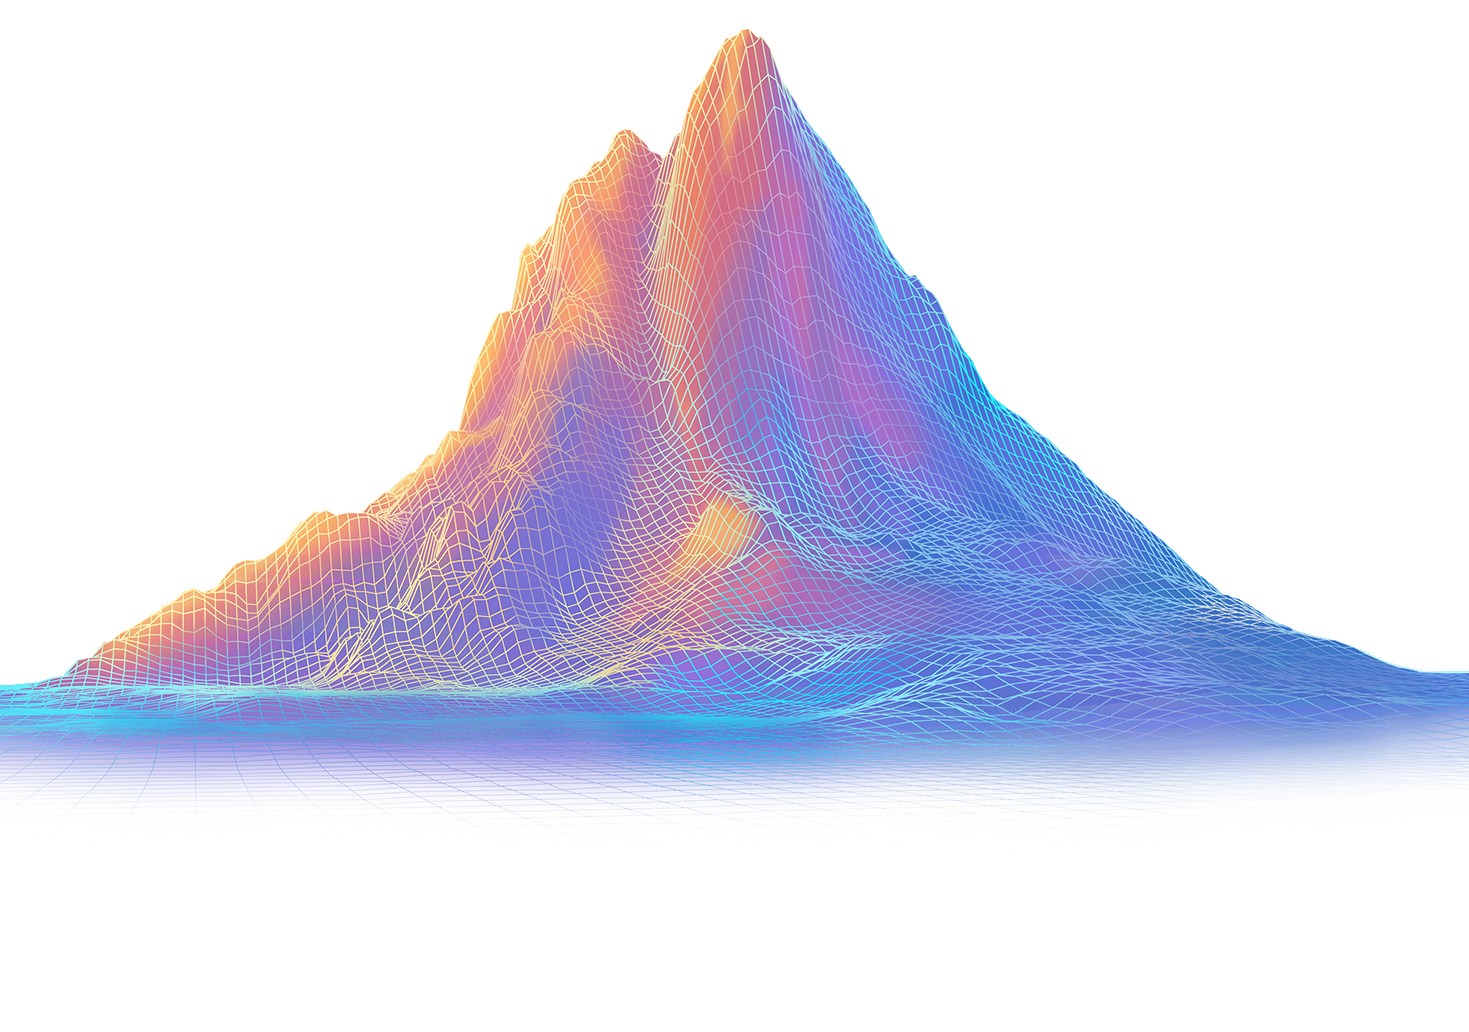
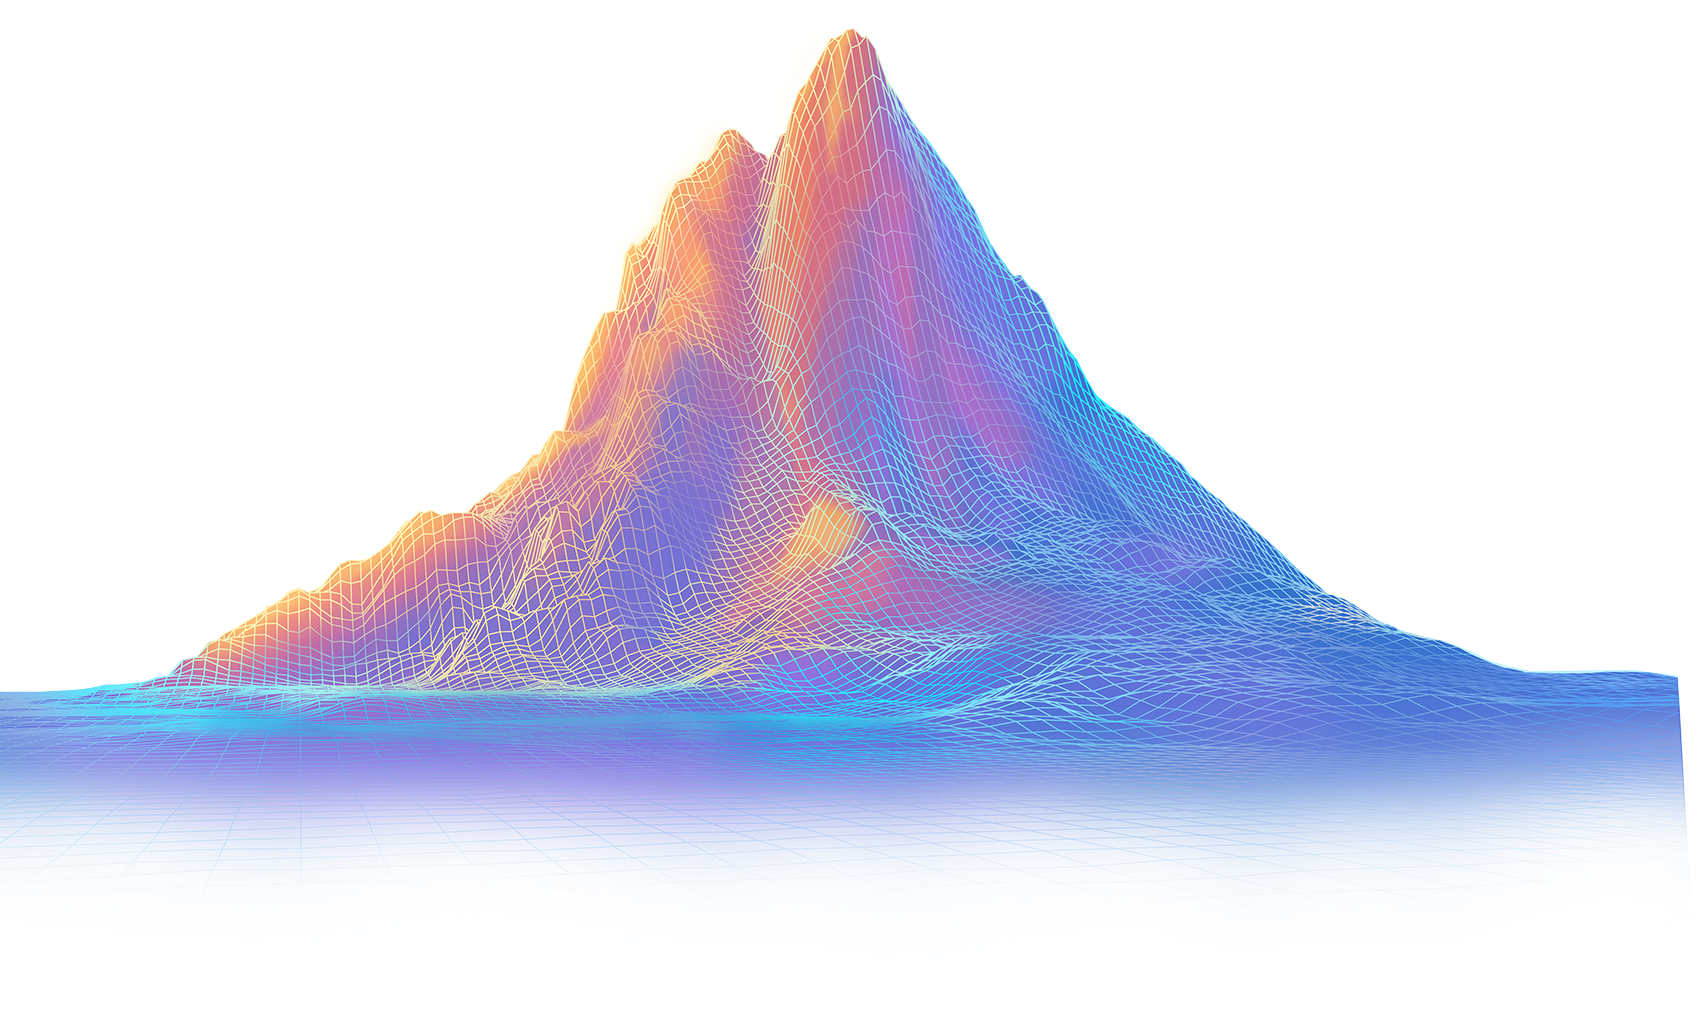
change img, road

Changed region(s): [[0.0, 0.031, 1.0, 0.8372]]

diff --git a/index.html b/index.html
@@ -435,6 +435,74 @@
                         id="svg2"
                         class="mb hidden"
                         preserveAspectRatio="none"
+                        width="696" height="688" viewBox="0 0 696 688" fill="none" xmlns="http://www.w3.org/2000/svg">
+                            <path d="M323 20.5691C325.787 12.4604 327.111 9.72234 332 6.92803L329 2.56905C322.611 6.06923 320.529 9.58274 317.5 18.5691L323 20.5691Z" fill="#747264" stroke="#747264" stroke-width="2"/>
+                            <path d="M314.5 32.5L320 33.9216L316.5 55L310.5 53L314.5 32.5Z" fill="#747264" stroke="#747264"/>
+                            <path d="M308.5 90.5L313 68.5L307 66.5L303 88.5L308.5 90.5Z" fill="#747264" stroke="#747264"/>
+                            <path d="M300.262 124L305.762 103L300.262 101.5L295 122.5L300.262 124Z" fill="#747264" stroke="#747264"/>
+                            <path d="M287.743 153L296.243 135.5L291 133L282.243 149.5L287.743 153Z" fill="#747264" stroke="#747264"/>
+                            <path d="M280.438 162.402C279.071 160.254 277.367 160.148 276 158C270.691 162.802 269.42 164.531 263.5 166L266.5 171.5C273.061 170.604 274.716 167.827 280.438 162.402Z" fill="#747264" stroke="#747264"/>
+                            <path d="M254.586 174.5L252 169.5C245.228 171.038 242.993 172.679 237.93 179.5L242.5 183C246.567 176.653 248.17 176.236 254.586 174.5Z" fill="#747264" stroke="#747264"/>
+                            <path d="M233 195L227.5 191.5C220.74 198.758 222.144 199.303 222 209.5L228.5 210C229.085 201.832 227.896 200.439 233 195Z" fill="#747264" stroke="#747264"/>
+                            <path d="M240 240L244.5 236C238.755 232.425 235.79 229 231.79 222L226.5 224.5C230.885 231.347 233.681 235.508 240 240Z" fill="#747264" stroke="#747264"/>
+                            <path d="M264 259L252.5 243L248.083 247L259 263L264 259Z" fill="#747264" stroke="#747264"/>
+                            <path d="M279 286.5L270 269L265 272.408L274 289.5L279 286.5Z" fill="#747264" stroke="#747264"/>
+                            <path d="M292 318.44L284.5 299.5L279 301.786L286.5 320.787L292 318.44Z" fill="#747264" stroke="#747264"/>
+                            <path d="M296.259 354L302.5 352L296.259 333.5L290.5 335.5L296.259 354Z" fill="#747264" stroke="#747264"/>
+                            <path d="M307 366.5L301.5 368.5L308.5 387.5L314 386L307 366.5Z" fill="#747264" stroke="#747264"/>
+                            <path d="M321.579 419L327.5 415.5C322.795 409.379 320.066 406.981 317.5 399L311 401.222C313.599 409.163 316.736 412.449 321.579 419Z" fill="#747264" stroke="#747264"/>
+                            <path d="M341 444.625L345.5 440.417C340.202 435.579 337.691 433.475 333.5 426.417L328 429.625C331.633 436.175 335.067 439.002 341 444.625Z" fill="#747264" stroke="#747264"/>
+                            <path d="M362 462L365.5 456.5C359.295 453.671 358.478 453.345 353.5 447.5L348.5 451.5C353.332 456.732 355.671 458.569 362 462Z" fill="#747264" stroke="#747264"/>
+                            <path d="M384 476.5L387 471C381.122 467.553 380.5 466.5 373.5 462L370 467C378 472 377 472 384 476.5Z" fill="#747264" stroke="#747264"/>
+                            <path d="M409 490.5L410.714 484.315C404.259 481.899 402.025 481.002 397 477L393.355 482.315C398.292 486.617 401.342 488.27 409 490.5Z" fill="#747264" stroke="#747264"/>
+                            <path d="M434.033 496.684L435 491.5L420.5 487.5L418.5 493L434.033 496.684Z" fill="#747264" stroke="#747264"/>
+                            <path d="M442 498.861L457 503L458 497.285L444 493.5L442 498.861Z" fill="#747264" stroke="#747264"/>
+                            <path d="M464.5 505.434L466.5 500.5L482 506.719L480 512.219L464.5 505.434Z" fill="#747264" stroke="#747264"/>
+                            <path d="M488.145 516L492 510.5C497.442 515.188 499.149 515.988 505.5 518.5L502.772 524.892C496.231 521.857 493.89 520.242 488.145 516Z" fill="#747264" stroke="#747264"/>
+                            <path d="M528.541 534.5L530 528.5C523.941 526.55 520.395 525.876 514.5 522.5L512 528.241C517.922 531.66 522.506 532.589 528.541 534.5Z" fill="#747264" stroke="#747264"/>
+                            <path d="M553.5 539.5L554.332 534C548.031 532.13 544.001 531.388 537.5 530.5L536.5 536.5C542.9 537.011 547.086 537.673 553.5 539.5Z" fill="#747264" stroke="#747264"/>
+                            <path d="M576 548.5L579 543.462C573.216 539.827 569.449 537.477 563 536L561 541.5C567 543.462 570.286 544.82 576 548.5Z" fill="#747264" stroke="#747264"/>
+                            <path d="M600.012 559.816L602 554.5C596.056 552.207 592.895 551.381 587 548L584.317 552.851C590.35 556.601 593.795 558.035 600.012 559.816Z" fill="#747264" stroke="#747264"/>
+                            <path d="M625.168 567.304L625.973 561.5L610.74 557.196L609.184 563L625.168 567.304Z" fill="#747264" stroke="#747264"/>
+                            <path d="M633.975 569.19L635.341 563.5C641.574 565.473 644.811 566.744 650.901 567.786L650.12 573C643.703 572.341 640.16 571.551 633.975 569.19Z" fill="#747264" stroke="#747264"/>
+                            <path d="M659.451 575.345L660.086 569.631C666.681 570.576 670.557 572.044 676.451 574.393L675.402 579.631C669.173 577.53 665.679 576.613 659.451 575.345Z" fill="#747264" stroke="#747264"/>
+                            <path d="M682.197 582.361L684 577C692.466 581.888 696.154 583.909 693.385 588.133L688.27 594.291L685 589.467C687.615 586.346 688.348 584.903 682.197 582.361Z" fill="#747264" stroke="#747264"/>
+                            <path d="M681 596V591H665V596H681Z" fill="#747264" stroke="#747264"/>
+                            <path d="M656 595.571V590.5H640V595.571H656Z" fill="#747264" stroke="#747264"/>
+                            <path d="M615 594.5V589.5L631 590V595L615 594.5Z" fill="#747264" stroke="#747264"/>
+                            <path d="M606 594V589.5H590V594H606Z" fill="#747264" stroke="#747264"/>
+                            <path d="M581 594.5V589.5H565V594.5H581Z" fill="#747264" stroke="#747264"/>
+                            <path d="M556.5 595V590C549.678 590.311 546.95 590.565 540.5 592.5L541.5 597.5C547.752 595.348 550 595.337 556.5 595Z" fill="#747264" stroke="#747264"/>
+                            <path d="M531.5 600L529.5 595C522.79 596.337 520.76 599.052 515 602L518 607C523.839 604.09 525.16 601.393 531.5 600Z" fill="#747264" stroke="#747264"/>
+                            <path d="M509 613L505.5 608.5L492 617.5L494.249 622.5L509 613Z" fill="#747264" stroke="#747264"/>
+                            <path d="M472.704 636.591C478.505 633.418 481.314 631.453 487 627.5L484 623C478.17 626.664 476.44 628.917 470.5 632L472.704 636.591Z" fill="#747264" stroke="#747264"/>
+                            <path d="M464.189 641.952L461.689 638C455.59 641.229 452.926 642.683 446.689 645L448.394 649.5C454.733 647.119 458.194 645.473 464.189 641.952Z" fill="#747264" stroke="#747264"/>
+                            <path d="M440.587 653.81L438.5 649C432.957 651.757 430.38 653.749 424.5 655L426 659.5C431.433 658.028 434.645 656.744 440.587 653.81Z" fill="#747264" stroke="#747264"/>
+                            <path d="M417 663L415.417 658C409.397 660.006 407.508 661.168 401 662L401.847 667C407.877 666.061 410.814 665.204 417 663Z" fill="#747264" stroke="#747264"/>
+                            <path d="M391 671L389.5 665.5C383.236 667.202 381.477 669.741 375.5 670L376 675C381.827 674.844 384.649 672.505 391 671Z" fill="#747264" stroke="#747264"/>
+                            <path d="M366 677.242L365.673 672C359.626 673.12 356.203 673.558 350 673.747L350.327 678.989C356.433 679.078 359.864 678.63 366 677.242Z" fill="#747264" stroke="#747264"/>
+                            <path d="M325 681V676.188C330.705 675.836 333.746 675.319 340.5 674L341 679.25C334.424 680.539 330.942 680.932 325 681Z" fill="#747264" stroke="#747264"/>
+                            <path d="M317 682.5V677C310.366 678.046 306.647 678.861 300 678.5V683.794C306.483 684.249 310.221 683.638 317 682.5Z" fill="#747264" stroke="#747264"/>
+                            <path d="M291 684.5V679L275 680V685.5L291 684.5Z" fill="#747264" stroke="#747264"/>
+                            <path d="M266.561 686V680.5H250.478V686H266.561Z" fill="#747264" stroke="#747264"/>
+                            <path d="M241.581 686.5V681H225.841V686.5H241.581Z" fill="#747264" stroke="#747264"/>
+                            <path d="M216.602 687.5V682H200.519V687.5H216.602Z" fill="#747264" stroke="#747264"/>
+                            <path d="M191.965 687.5V682H175.198V687.5H191.965Z" fill="#747264" stroke="#747264"/>
+                            <path d="M166.643 687.5V682H150.561V687.5H166.643Z" fill="#747264" stroke="#747264"/>
+                            <path d="M142.006 687.5V681.5H125.239V687.5H142.006Z" fill="#747264" stroke="#747264"/>
+                            <path d="M116.685 686.5V680.5L100.26 680V686L116.685 686.5Z" fill="#747264" stroke="#747264"/>
+                            <path d="M92.0473 685.5V680H75.6226V685.5H92.0473Z" fill="#747264" stroke="#747264"/>
+                            <path d="M67.0677 684.5V679L50.643 677.5L50.3008 683.5L67.0677 684.5Z" fill="#747264" stroke="#747264"/>
+                            <path d="M42.0883 683V677.5L25.3213 677V682.5L42.0883 683Z" fill="#747264" stroke="#747264"/>
+                            <path d="M17.1093 681.5V676V675.5H0.68457V681.5H17.1093Z" fill="#747264" stroke="#747264"/>
+                            </svg>
+                            
+                            
+                            
+                        <!-- <svg 
+                        id="svg2"
+                        class="mb hidden"
+                        preserveAspectRatio="none"
                         width="1017" height="688" viewBox="0 0 1017 688" fill="none" xmlns="http://www.w3.org/2000/svg">
                             <path d="M472 21C476.081 12.678 479.841 9.86785 487 7L484 1.5C474.644 5.09229 470.936 8.77721 466.5 18L472 21Z" fill="#747264" stroke="#747264" stroke-width="2"/>
                             <path d="M461.5 31L467.5 32.5L461.5 55L455.5 54L461.5 31Z" fill="#747264" stroke="#747264" stroke-width="1"/>
@@ -495,7 +563,7 @@
                             <path d="M98 684.5V679L74 677.5L73.5 683.5L98 684.5Z" fill="#747264" stroke="#747264" stroke-width="1"/>
                             <path d="M61.5 683V677.5L37 677V682.5L61.5 683Z" fill="#747264" stroke="#747264" stroke-width="1"/>
                             <path d="M25 681.5V676V675.5H1V681.5H25Z" fill="#747264" stroke="#747264" stroke-width="1"/>
-                        </svg>
+                        </svg> -->
                         <span id="percentage-text" style="position: absolute; font-size: 20px; font-family: Aceh; color: white; pointer-events: none;"></span>
                     </div>
                 </div>
